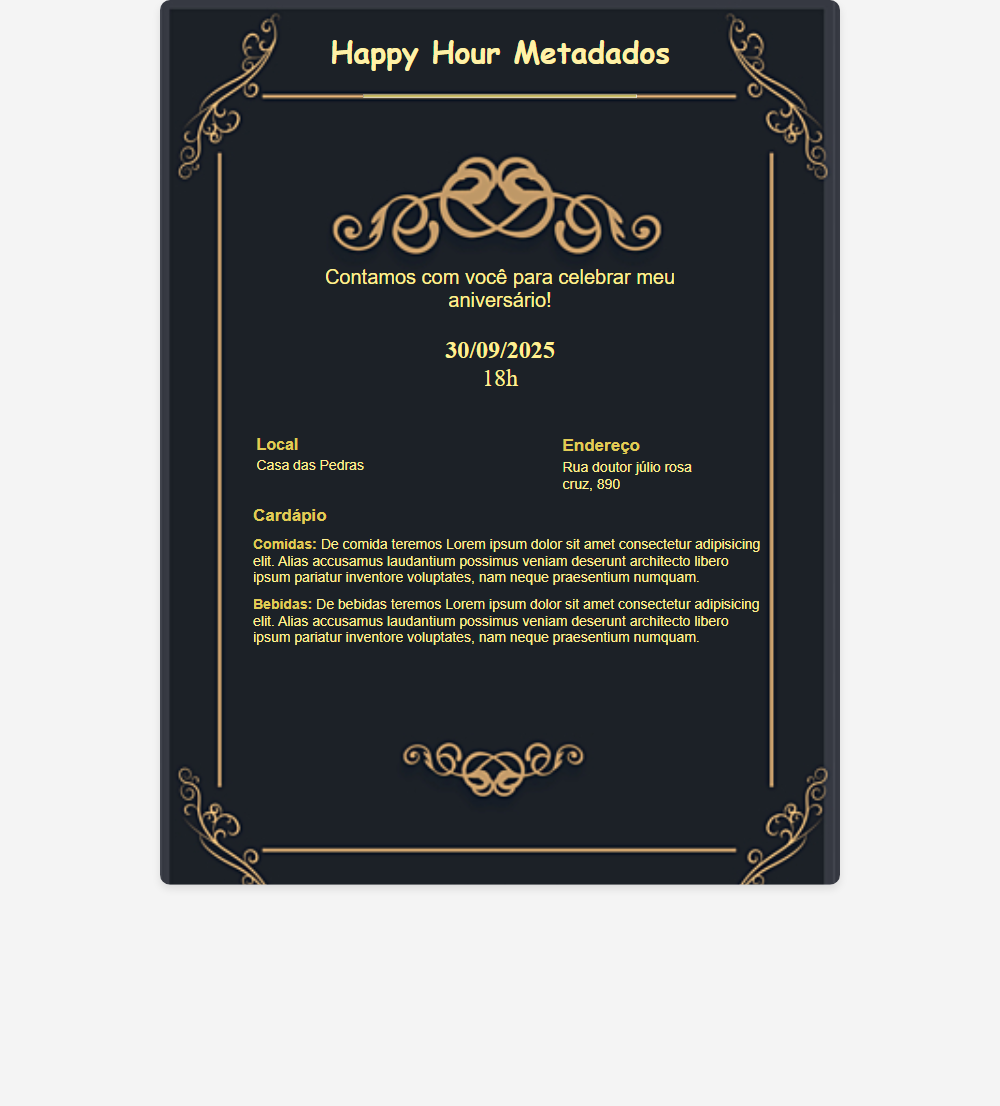
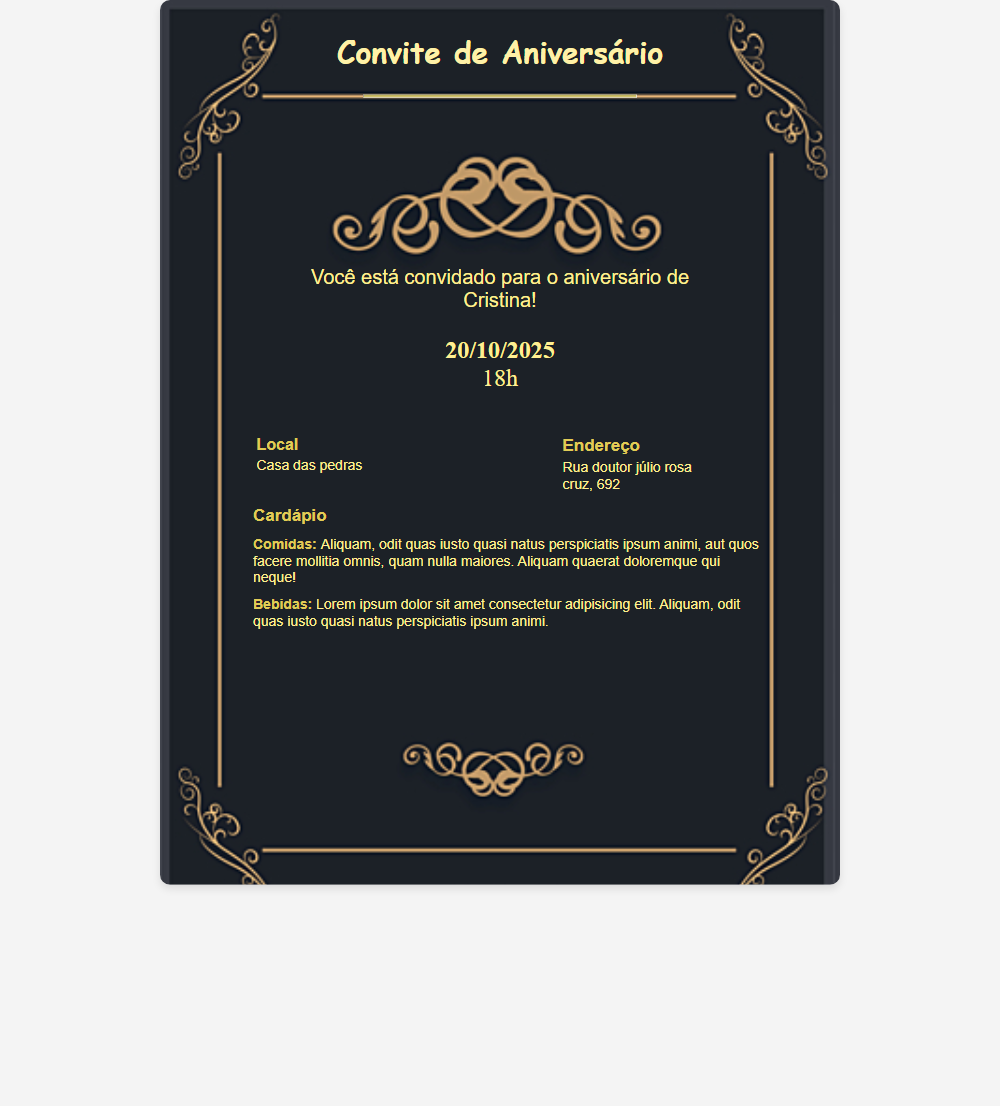
colocando senha no .env e ajustando templates

diff --git a/assets/templates/template-3.html b/assets/templates/template-3.html
@@ -129,32 +129,32 @@
 
     <div class="container">
         <div class="header">
-            <span class="name">Happy Hour Metadados</span>
+            <span class="name">{{titulo}}</span>
         </div>
         <hr>
-        <span class="desc">Contamos com você para celebrar meu aniversário!</span>
+        <span class="desc">{{mensagem}}</span>
 
-        <span class="date" style="margin-top: 25px">30/09/2025</span>
-        <span class="date" style="font-weight: 500">18h</span>
+        <span class="date" style="margin-top: 25px">{{data}}</span>
+        <span class="date" style="font-weight: 500">{{hora}}h</span>
 
         <div class="location">
             <div class="location-info">
                 <span style="font-size: 16px; font-weight: 600; color:rgb(225 204 87)">Local</span>
-                <span style="font-size: 14px">Casa das Pedras</span>
+                <span style="font-size: 14px">{{local}}</span>
             </div>
             <div class="location-info">
                 <span style="font-size: 17px; font-weight: 600; color:rgb(225 204 87)">Endereço</span>
-                <span style="font-size: 14px; width: 50%;">Rua doutor júlio rosa cruz, 890</span>
+                <span style="font-size: 14px; width: 50%;">{{endereco}}</span>
             </div>
         </div>
 
         <div class="cardapio">
             <h2 style="font-size: 17px; font-weight: 600; margin: 0; color:rgb(225 204 87)">Cardápio</h2>
             <div class="food">
-                <strong style="color:rgb(225 204 87)">Comidas: </strong><span>De comida teremos Lorem ipsum dolor sit amet consectetur adipisicing elit. Alias accusamus laudantium possimus veniam deserunt architecto libero ipsum pariatur inventore voluptates, nam neque praesentium numquam.</span>
+                <strong style="color:rgb(225 204 87)">Comidas: </strong><span>{{comidas}}</span>
             </div>
             <div class="food">
-                <strong style="color:rgb(225 204 87)">Bebidas: </strong><span>De bebidas teremos Lorem ipsum dolor sit amet consectetur adipisicing elit. Alias accusamus laudantium possimus veniam deserunt architecto libero ipsum pariatur inventore voluptates, nam neque praesentium numquam.</span>
+                <strong style="color:rgb(225 204 87)">Bebidas: </strong><span>{{bebidas}}</span>
             </div>
         </div>
 

diff --git a/assets/templates/template-1.html b/assets/templates/template-1.html
@@ -127,32 +127,32 @@
 
     <div class="container">
         <div class="header">
-            <span class="name">{{nome_evento}}</span>
+            <span class="name">{{titulo}}</span>
         </div>
         <hr>
-        <span class="desc">Contamos com você para celebrar meu aniversário!</span>
+        <span class="desc">{{mensagem}}</span>
 
-        <span class="date" style="margin-top: 25px">30/09/2025</span>
-        <span class="date" style="font-weight: 500">18h</span>
+        <span class="date" style="margin-top: 25px">{{data}}</span>
+        <span class="date" style="font-weight: 500">{{hora}}h</span>
 
         <div class="location">
             <div class="location-info">
                 <span style="font-size: 16px; font-weight: 600">Local</span>
-                <span style="font-size: 14px">Casa das Pedras</span>
+                <span style="font-size: 14px">{{local}}</span>
             </div>
             <div class="location-info">
                 <span style="font-size: 17px; font-weight: 600">Endereço</span>
-                <span style="font-size: 14px; width: 50%;">Rua doutor júlio rosa cruz, 890</span>
+                <span style="font-size: 14px; width: 50%;">{{endereco}}</span>
             </div>
         </div>
 
         <div class="cardapio">
             <h2 style="font-size: 17px; font-weight: 600; margin: 0">Cardápio</h2>
             <div class="food">
-                <strong>Comidas: </strong><span>De comida teremos Lorem ipsum dolor sit amet consectetur adipisicing elit. Alias accusamus laudantium possimus veniam deserunt architecto libero ipsum pariatur inventore voluptates, nam neque praesentium numquam.</span>
+                <strong>Comidas: </strong><span>{{comidas}}</span>
             </div>
             <div class="food">
-                <strong>Bebidas: </strong><span>De bebidas teremos Lorem ipsum dolor sit amet consectetur adipisicing elit. Alias accusamus laudantium possimus veniam deserunt architecto libero ipsum pariatur inventore voluptates, nam neque praesentium numquam.</span>
+                <strong>Bebidas: </strong><span>{{bebidas}}</span>
             </div>
         </div>
 

diff --git a/assets/templates/template-2.html b/assets/templates/template-2.html
@@ -129,21 +129,21 @@
 
     <div class="container">
         <div class="header">
-            <span class="name">{{nome_evento}}</span>
+            <span class="name">{{titulo}}</span>
         </div>
         <span class="desc">{{mensagem}}</span>
 
-        <span class="date" style="margin-top: 10px">30/09/2025</span>
-        <span class="date" style="font-weight: 500">18h</span>
+        <span class="date" style="margin-top: 10px">{{data}}</span>
+        <span class="date" style="font-weight: 500">{{hora}}h</span>
 
         <div class="location">
             <div class="location-info">
                 <span style="font-size: 16px; font-weight: 600">Local</span>
-                <span style="font-size: 14px">Casa das Pedras</span>
+                <span style="font-size: 14px">{{local}}</span>
             </div>
             <div class="location-info">
                 <span style="font-size: 17px; font-weight: 600">Endereço</span>
-                <span style="font-size: 14px; width: 50%;">Rua doutor júlio rosa cruz, 890</span>
+                <span style="font-size: 14px; width: 50%;">{{endereco}}</span>
             </div>
         </div>
 

diff --git a/assets/template-sending-email.py b/assets/template-sending-email.py
@@ -3,6 +3,7 @@ from pyppeteer import launch
 import asyncio
 import smtplib
 from email.message import EmailMessage
+from dotenv import load_dotenv
 import mimetypes
 import os
 
@@ -56,8 +57,9 @@ async def gerar_imagem_do_html(arquivo_html, output_image_path, variaveis, camin
 
 # Função para enviar o e-mail com a imagem gerada como anexo
 def enviar_email_com_imagem(destinatario, assunto, mensagem_texto, caminho_imagem):
-    remetente = "lucas.bessegato96@gmail.com"  # Substitua pelo seu e-mail
-    senha = "hqob cpdo enth etsj"        # Substitua pela sua senha de app
+    load_dotenv()
+    remetente = os.getenv('GMAIL_ACCOUNT')
+    senha = os.getenv('GMAIL_APP_PASSWORD')
 
     # Verificar se o arquivo de imagem existe
     if not os.path.isfile(caminho_imagem):
@@ -98,7 +100,12 @@ def enviar_email_com_imagem(destinatario, assunto, mensagem_texto, caminho_image
 variaveis = {
     'titulo': 'Convite de Aniversário',
     'mensagem': 'Você está convidado para o aniversário de Cristina!',
-    'nome_aniversariante': 'Besse besse aea'
+    'data': '20/10/2025',
+    'hora': '18',
+    'local': 'Casa das pedras',
+    'endereco': 'Rua doutor júlio rosa cruz, 692',
+    'comidas': 'Aliquam, odit quas iusto quasi natus perspiciatis ipsum animi, aut quos facere mollitia omnis, quam nulla maiores. Aliquam quaerat doloremque qui neque!',
+    'bebidas': 'Lorem ipsum dolor sit amet consectetur adipisicing elit. Aliquam, odit quas iusto quasi natus perspiciatis ipsum animi.'
 }
 arquivo_html = template_3_path
 imagem_output = 'convite_aniversario.png'
